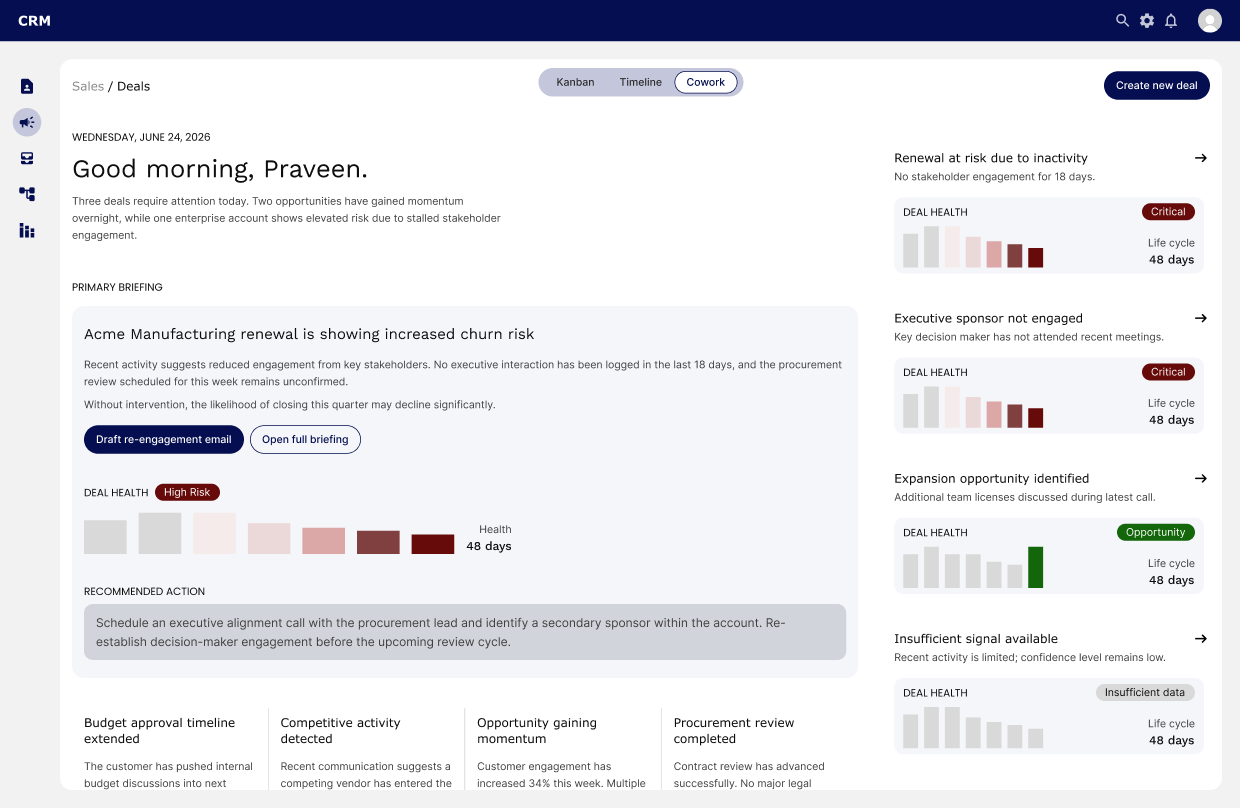
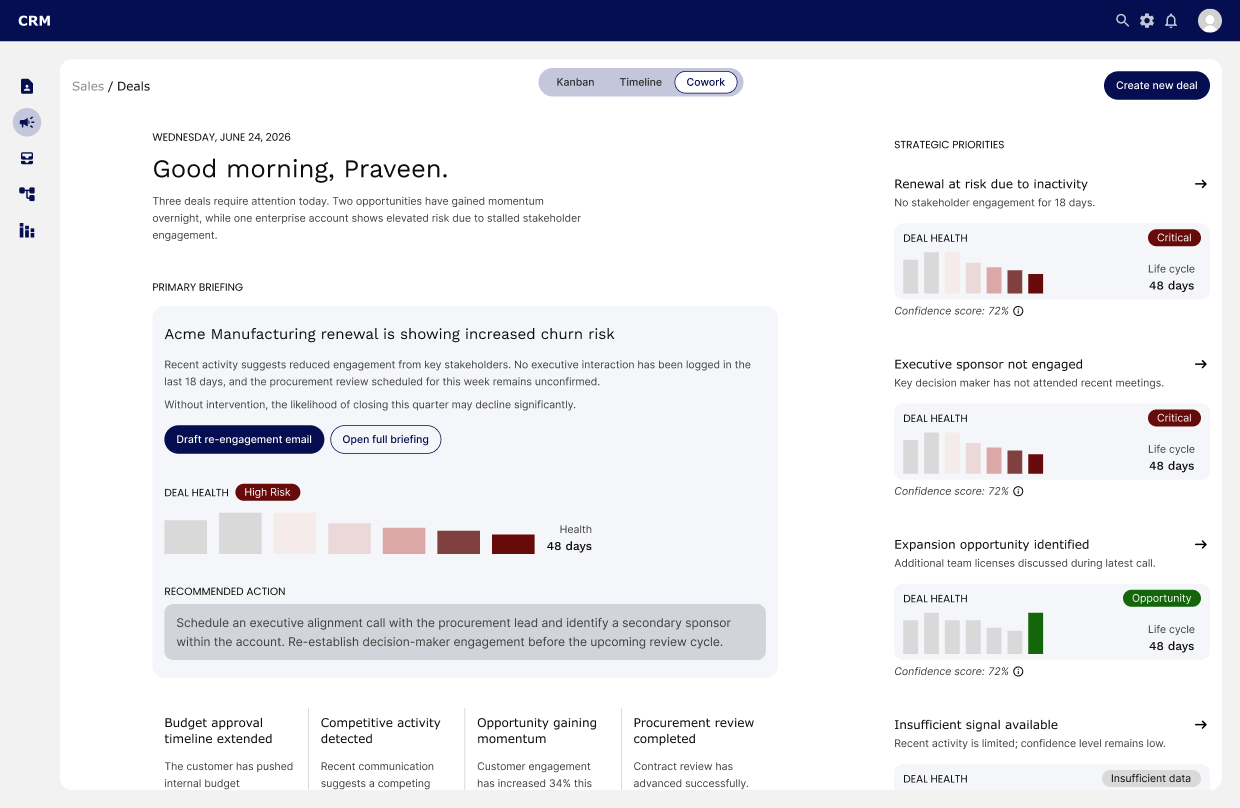
Updates

diff --git a/index.html b/index.html
@@ -8,8 +8,8 @@
     <link rel="preconnect" href="https://fonts.googleapis.com" />
     <link rel="preconnect" href="https://fonts.gstatic.com" crossorigin />
     <link rel="stylesheet" href="https://fonts.googleapis.com/css2?family=Crimson+Pro:ital,wght@0,400;0,500;0,600;1,400;1,500;1,600&family=Inter:wght@300;400;500;600;700&display=swap" />
-    <script type="module" crossorigin src="/myportfolio/assets/index-BDvEm-G8.js"></script>
-    <link rel="stylesheet" crossorigin href="/myportfolio/assets/index-luyY57wV.css">
+    <script type="module" crossorigin src="/myportfolio/assets/index-Dgdh7xWx.js"></script>
+    <link rel="stylesheet" crossorigin href="/myportfolio/assets/index-qb7_9k09.css">
   </head>
   <body>
     <div id="root"></div>

diff --git a/assets/index-qb7_9k09.css b/assets/index-qb7_9k09.css
@@ -1,0 +1,1 @@
+*,:before,:after{box-sizing:border-box;margin:0;padding:0}body{color:#0d0d0d;background-color:#faf9f5;font-family:Inter,-apple-system,BlinkMacSystemFont,Segoe UI,sans-serif;line-height:1.6;overflow-x:hidden}[data-reveal]{opacity:0;will-change:opacity, transform;transition:opacity .8s cubic-bezier(.16,1,.3,1),transform .8s cubic-bezier(.16,1,.3,1);transform:translateY(24px)}[data-reveal=scale]{opacity:0;will-change:opacity, transform;transition:opacity 1s cubic-bezier(.16,1,.3,1),transform 1s cubic-bezier(.16,1,.3,1);transform:translateY(16px)scale(.97)}[data-reveal].revealed{opacity:1;transform:none}[data-delay="1"]{transition-delay:.1s}[data-delay="2"]{transition-delay:.2s}[data-delay="3"]{transition-delay:.3s}[data-delay="4"]{transition-delay:.4s}@media (prefers-reduced-motion:reduce){[data-reveal],[data-reveal=scale]{opacity:1!important;will-change:auto!important;transition:none!important;transform:none!important}}._nav_km2ww_1{z-index:100;background-color:#faf9f5;position:sticky;top:0}._navInner_km2ww_8{justify-content:space-between;align-items:center;max-width:854px;height:64px;margin:0 auto;padding:0 clamp(16px,3vw,32px);display:flex}._brand_km2ww_18{color:#0d0d0d;align-items:center;gap:10px;text-decoration:none;display:flex}._avatar_km2ww_26{color:#0d0d0d;letter-spacing:.05em;background-color:#d4cfc8;border-radius:4px;flex-shrink:0;justify-content:center;align-items:center;width:32px;height:32px;font-family:Inter,sans-serif;font-size:10px;font-weight:600;display:flex}._brandName_km2ww_42{color:#0d0d0d;font-family:Inter,sans-serif;font-size:15px;font-weight:500}._links_km2ww_49{align-items:center;gap:clamp(20px,3vw,36px);display:flex}._link_km2ww_49{color:#404040;letter-spacing:.01em;font-family:Inter,sans-serif;font-size:14px;text-decoration:none;transition:color .2s}._link_km2ww_49:hover,._active_km2ww_68{color:#0d0d0d}._page_14jmh_1{background-color:#faf9f5;flex-direction:column;min-height:100vh;display:flex;overflow-x:hidden}._main_14jmh_9{flex-direction:column;flex:1;display:flex}@keyframes _blink_14jmh_1{0%,49%{opacity:1}50%,to{opacity:0}}._hero_14jmh_23{flex-direction:column;justify-content:center;width:100%;max-width:640px;min-height:calc(100svh - 64px);margin:0 auto;padding:clamp(32px,5vh,64px) clamp(16px,4vw,24px);display:flex}._heroName_14jmh_35{color:#0d0d0d;margin:0 0 clamp(16px,2.5vh,28px);font-family:Crimson Pro,serif;font-size:clamp(44px,6vw,72px);font-weight:400;line-height:1.1}._cursor_14jmh_44{vertical-align:baseline;background-color:#0d0d0d;border-radius:2px;width:3px;height:.82em;margin-left:3px;transition:width .3s cubic-bezier(.34,1.56,.64,1),height .3s cubic-bezier(.34,1.56,.64,1),border-radius .22s;display:inline-block}._cursorBlinking_14jmh_58{animation:.55s step-end 4 _blink_14jmh_1}._cursorDot_14jmh_62{border-radius:50%;width:8px;height:8px}._heroBio_14jmh_68{color:#404040;opacity:0;max-width:480px;margin:0;font-family:Inter,sans-serif;font-size:clamp(14px,1.3vw,16px);line-height:1.7;transition:opacity .8s cubic-bezier(.22,1,.36,1),transform .8s cubic-bezier(.22,1,.36,1);transform:translateY(10px)}._heroBioVisible_14jmh_80{opacity:1;transform:translateY(0)}@media (prefers-reduced-motion:reduce){._cursor_14jmh_44{display:none}._heroBio_14jmh_68{opacity:1;transition:none;transform:none}}._caseSection_14jmh_99{padding:clamp(60px,8vh,100px) 0 clamp(80px,10vh,120px)}._caseInner_14jmh_103{grid-template-columns:45fr 55fr;align-items:center;gap:clamp(32px,5vw,72px);max-width:1440px;margin:0 auto;padding:0 clamp(20px,4.5vw,60px);display:grid}._caseLeft_14jmh_114{flex-direction:column;align-items:flex-start;gap:clamp(16px,2vh,24px);display:flex}._caseLabel_14jmh_121{color:#0d0d0d;letter-spacing:.01em;margin:0;font-family:Inter,sans-serif;font-size:12px;font-weight:500}._caseTitle_14jmh_130{color:#0d0d0d;margin:0;font-family:Crimson Pro,serif;font-size:clamp(28px,4vw,48px);font-weight:400;line-height:1.15}._caseDesc_14jmh_139{color:#606060;margin:0;font-family:Inter,sans-serif;font-size:clamp(13px,1.1vw,15px);line-height:1.7}._caseBtn_14jmh_147{color:#0d0d0d;border:1px solid #0d0d0d;border-radius:20px;align-items:center;margin-top:8px;padding:10px 22px;font-family:Inter,sans-serif;font-size:13px;font-weight:400;text-decoration:none;transition:background-color .2s,color .2s;display:inline-flex}._caseBtn_14jmh_147:hover{color:#faf9f5;background-color:#0d0d0d}._caseRight_14jmh_168{min-width:0}._caseCard_14jmh_172{background-color:#e8e4de;border-radius:16px;width:100%;overflow:hidden}._caseCardImage_14jmh_179{width:100%;height:auto;display:block}@media (width<=900px){._caseInner_14jmh_103{grid-template-columns:1fr;gap:clamp(32px,5vw,48px)}._caseTitle_14jmh_130{font-size:clamp(26px,5vw,40px)}}@media (width<=480px){._caseSection_14jmh_99{padding:clamp(48px,6vh,72px) 0 clamp(60px,8vh,96px)}._caseBtn_14jmh_147{justify-content:center;width:100%}}._container_4qbuu_2{color:#1a1a1a;flex-direction:column;gap:clamp(60px,8vw,120px);max-width:900px;margin:0 auto;padding:clamp(32px,4vw,48px) clamp(16px,4vw,24px);font-family:sans-serif;display:flex}._hero_4qbuu_14{flex-direction:column;gap:12px;padding:clamp(32px,5vw,60px) 0;display:flex}._heroContent_4qbuu_21{flex-direction:column;gap:8px;display:flex}._heroTag_4qbuu_27{color:#0d0d0d;text-align:left;font-family:Crimson Pro;font-size:clamp(16px,3vw,24px);line-height:133%}._heroTitle_4qbuu_35{color:#0d0d0d;text-align:left;font-family:Crimson Pro;font-size:clamp(28px,6vw,60px);line-height:1.2}._content_4qbuu_44{flex-direction:column;gap:clamp(60px,8vw,120px);display:flex}._sectionBlock_4qbuu_50{flex-direction:column;gap:clamp(20px,3vw,32px);padding:0;display:flex}._section_4qbuu_50{flex-direction:column;gap:12px;display:flex}._sectionLabel_4qbuu_63{color:#0d0d0d;text-align:left;font-family:Crimson Pro;font-size:clamp(14px,1.8vw,18px);line-height:133%;position:relative}._sectionTitle_4qbuu_72{color:#0d0d0d;text-align:left;font-family:Crimson Pro;font-size:clamp(22px,3.5vw,34px);line-height:133%;position:relative}._bodyText_4qbuu_81,._paragraph_4qbuu_92{color:#404040;text-align:left;width:100%;font-family:Inter;font-size:16px;line-height:161.8%;display:inline-block;position:relative}._outcomeText_4qbuu_103{margin:0 0 12px;font-style:italic}._imageWrapper_4qbuu_108{width:100%}._image_4qbuu_108{width:100%;height:auto;display:block}._image8Parent_4qbuu_119{box-sizing:border-box;background-color:#e6e4e0;border-radius:12px;justify-content:center;align-items:center;width:100%;height:auto;padding:clamp(20px,4vw,60px);display:flex;position:relative;overflow:hidden}._image8Icon_4qbuu_134{object-fit:cover;border-radius:12px;width:100%;max-width:100%;height:auto;position:relative;box-shadow:-2px -2px 8px #faf9f5,12px 8px 36px -4px #a6a6a23d}._image6Parent_4qbuu_144{box-sizing:border-box;text-align:left;color:#404040;align-items:center;gap:clamp(24px,4vw,40px);width:100%;padding:0;font-family:Crimson Pro;font-size:clamp(22px,3vw,34px);display:flex;position:relative}._image6Icon_4qbuu_158{object-fit:cover;border-radius:8px;flex:1;min-width:0;height:clamp(280px,40vw,580px);position:relative;overflow:hidden}._theActualProblemHadThreeCParent_4qbuu_168{flex-direction:column;flex:1;justify-content:center;align-items:flex-start;gap:clamp(24px,3vw,40px);min-width:0;display:flex}._theActualProblem_4qbuu_168{width:100%;line-height:133%;display:inline-block;position:relative}._frameParent_4qbuu_185{color:#0d0d0d;flex-direction:column;justify-content:center;align-self:stretch;align-items:flex-start;font-size:clamp(16px,2vw,21px);display:flex}._silentDeteriorationParent_4qbuu_196{border-bottom:.6px dashed #b0b0b0;border-radius:4px;flex-direction:column;align-self:stretch;align-items:flex-start;gap:10px;padding:16px 0;transition:background-color .2s;display:flex}._silentDeteriorationParent_4qbuu_196:hover{background-color:#00000005}._silentDeterioration_4qbuu_196{align-self:stretch;font-weight:500;line-height:161.8%;position:relative}._stageAmountAnd_4qbuu_219{color:#404040;align-self:stretch;font-family:Inter;font-size:16px;line-height:161.8%;position:relative}._accordionHeader_4qbuu_228{cursor:pointer;-webkit-user-select:none;user-select:none;justify-content:space-between;align-self:stretch;align-items:center;transition:opacity .2s;display:flex}._accordionHeader_4qbuu_228:hover{opacity:.65}._accordionToggle_4qbuu_242{color:#b0b0b0;flex-shrink:0;margin-left:16px;font-family:Inter,sans-serif;font-size:18px;font-weight:300;line-height:1}._accordionBody_4qbuu_252{opacity:0;grid-template-rows:0fr;transition:grid-template-rows .4s cubic-bezier(.16,1,.3,1),opacity .3s cubic-bezier(.16,1,.3,1);display:grid}._accordionBodyOpen_4qbuu_260{opacity:1;grid-template-rows:1fr}._accordionInner_4qbuu_265{padding-top:4px;overflow:hidden}._quoteBlock_4qbuu_271{flex-direction:column;gap:8px;display:flex}._quote_4qbuu_271{color:#444;border-left:3px solid #ccc;padding-left:16px;font-size:17px;font-style:italic;line-height:1.6}._dealDecayIs_4qbuu_286{color:#404040;text-align:center;width:100%;font-family:Crimson Pro;font-size:clamp(20px,3.5vw,34px);line-height:133%;display:inline-block;position:relative}._quoteLabel_4qbuu_297{text-transform:uppercase;letter-spacing:.06em;color:#888;font-size:13px;font-weight:600}._readLink_4qbuu_305{letter-spacing:.1em;cursor:pointer;align-self:flex-start;font-size:12px;font-weight:700;text-decoration:underline;transition:opacity .25s,letter-spacing .25s cubic-bezier(.16,1,.3,1)}._readLink_4qbuu_305:hover{opacity:.5;letter-spacing:.14em}._cardsTrack_4qbuu_321{scroll-snap-type:x mandatory;-webkit-overflow-scrolling:touch;cursor:grab;scrollbar-width:none;gap:20px;width:100vw;padding:8px 60px 40px max(24px,50vw - 426px);display:flex;position:relative;left:calc(50% - 50vw);overflow-x:auto}._cardsTrack_4qbuu_321::-webkit-scrollbar{display:none}._card_4qbuu_321{scroll-snap-align:start;box-sizing:border-box;text-align:left;will-change:transform;background-color:#fff;border-radius:20px;flex-direction:column;flex:0 0 min(520px,82vw);align-items:flex-start;gap:clamp(20px,2.5vw,28px);padding:clamp(28px,4vw,48px);transition:transform .35s cubic-bezier(.16,1,.3,1),box-shadow .35s cubic-bezier(.16,1,.3,1);display:flex;position:relative;box-shadow:0 2px 24px #0000000f}._card_4qbuu_321:hover{transform:translateY(-5px);box-shadow:0 12px 48px #0000001a}._cardIndex_4qbuu_363{letter-spacing:.08em;color:#b0b0ac;text-transform:uppercase;font-family:Inter,sans-serif;font-size:12px;font-weight:500}._cardTitle_4qbuu_372{color:#0d0d0d;font-family:Crimson Pro,serif;font-size:clamp(20px,2.5vw,24px);font-weight:500;line-height:133%}._cardBody_4qbuu_380{color:#404040;flex:1;font-family:Inter,sans-serif;font-size:15px;line-height:161.8%}._principlesContainer_4qbuu_389{width:min(1320px,100vw);position:relative;left:calc(50% - min(660px,50vw))}._principlesList_4qbuu_395{flex-direction:column;gap:clamp(60px,8vw,120px);display:flex}._principleRow_4qbuu_401{align-items:flex-end;gap:40px;display:flex}._principleRowReversed_4qbuu_407{flex-direction:row-reverse}._principleText_4qbuu_411{flex-direction:column;flex:0 0 calc(35% - 20px);gap:16px;display:flex}._principleVisual_4qbuu_418{box-sizing:border-box;border-radius:12px;flex-direction:column;flex:0 0 calc(65% - 20px);justify-content:center;align-items:center;height:auto;min-height:clamp(280px,35vw,603px);padding:clamp(20px,3vw,40px);display:flex;position:relative;overflow:hidden}._principleImage_4qbuu_433{object-fit:contain;border-radius:12px;width:100%;max-width:100%;height:auto;max-height:none;display:block;position:relative}._principleVisualFull_4qbuu_445{justify-content:flex-start;padding:0}._principleImageFull_4qbuu_450{object-fit:contain;border-radius:0;width:100%;max-width:none;height:auto;max-height:none;display:block;position:static}._decisionTitle_4qbuu_461{color:#0d0d0d;font-family:Crimson Pro;font-size:clamp(17px,2vw,21px);font-weight:500;line-height:161.8%}._decisionBody_4qbuu_469{color:#404040;font-size:16px;line-height:161.8%}._subHeader_4qbuu_475{font-size:15px;font-weight:600}._reflectionGrid_4qbuu_481{flex-direction:column;gap:clamp(60px,8vw,120px);width:100%;display:flex}._reflectionRow_4qbuu_488{align-self:stretch;align-items:flex-start;gap:clamp(40px,8vw,120px);display:flex}._reflectionItem_4qbuu_495{flex-direction:column;flex:1;align-items:flex-start;gap:20px;min-width:0;display:flex}._vectorWrapper_4qbuu_504{box-sizing:border-box;justify-content:center;align-items:center;width:40px;height:40px;padding:3.3px;display:flex}._vectorIcon_4qbuu_514{flex-shrink:0;align-self:stretch;max-width:100%;height:31.8px;overflow:hidden}._reflectionContent_4qbuu_522{flex-direction:column;gap:10px;display:flex}._reflectionTitle_4qbuu_528{color:#0d0d0d;font-family:Crimson Pro;font-size:clamp(17px,2vw,21px);font-weight:500;line-height:161.8%}._reflectionBody_4qbuu_536{color:#404040;font-family:Inter;font-size:16px;line-height:161.8%}._userflowImages_4qbuu_544{box-sizing:border-box;background-color:#e6e4e0;border-radius:12px;flex-direction:column;gap:clamp(24px,3vw,40px);padding:clamp(20px,4vw,60px);display:flex}._userflowDesc_4qbuu_554{color:#404040;max-width:40%;font-family:Inter,sans-serif;font-size:clamp(14px,1.6vw,16px);line-height:161.8%}._userflowCols_4qbuu_562{align-items:flex-start;gap:clamp(32px,18vw,240px);display:flex}._userflowCol_4qbuu_562{flex-direction:column;flex:1;gap:clamp(20px,2.5vw,32px);min-width:0;display:flex}._userflowColMeta_4qbuu_576{flex-direction:column;gap:6px;display:flex}._userflowColTitle_4qbuu_582{color:#0d0d0d;margin-bottom:6px;font-family:Crimson Pro,serif;font-size:clamp(15px,1.5vw,17px)}._userflowRow_4qbuu_589{align-items:baseline;gap:12px;display:flex}._userflowKey_4qbuu_595{letter-spacing:.1em;text-transform:uppercase;color:#b0b0ac;flex:0 0 80px;font-family:Inter,sans-serif;font-size:10px;font-weight:600}._userflowVal_4qbuu_605{color:#404040;font-family:Inter,sans-serif;font-size:13px;line-height:1.55}._userflowImg_4qbuu_612{border-radius:8px;width:100%;height:auto;display:block}@media (width<=768px){._image6Parent_4qbuu_144{flex-direction:column;align-items:flex-start;gap:24px}._image6Icon_4qbuu_158{width:100%;height:clamp(220px,50vw,380px);min-width:unset;flex:none}._theActualProblemHadThreeCParent_4qbuu_168{flex:none;width:100%}._principleRow_4qbuu_401,._principleRowReversed_4qbuu_407{flex-direction:column;align-items:stretch;gap:0}._principleText_4qbuu_411{flex:none;width:100%;padding:0 clamp(16px,4vw,24px) clamp(24px,3vw,32px)}._principleVisual_4qbuu_418{border-radius:0;flex:none;width:100%;min-height:clamp(240px,50vw,420px)}._principleImage_4qbuu_433,._principleImageFull_4qbuu_450{max-height:none}._reflectionRow_4qbuu_488{flex-direction:column;gap:48px;padding:0 clamp(16px,4vw,24px)}._userflowDesc_4qbuu_554{max-width:100%}._userflowCols_4qbuu_562{flex-direction:column;gap:32px}}@media (width<=640px){._cardsTrack_4qbuu_321{gap:14px;padding:8px 20px 32px max(16px,50vw - 434px)}}